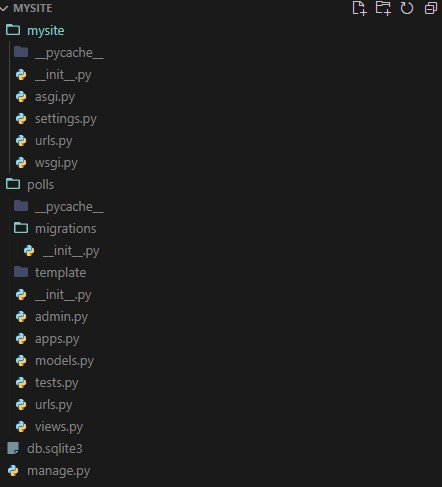
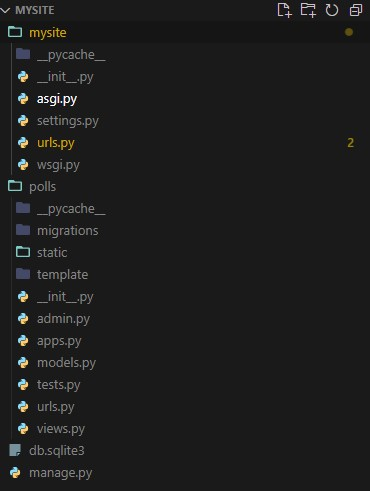
etc3 modify

diff --git a/_posts/etc/2022-01-18-etc-3.md b/_posts/etc/2022-01-18-etc-3.md
@@ -27,14 +27,39 @@ toc : true
     1. mysite/asgi.py : 현재 프로젝트를 서비스하기 위한 ASGI-호환 웹 서버의 진입점
     2. mysite/wsgi.py : 현재 프로젝트를 서비스하기 위한 WSGI 호환 웹 서버의 진입점
     3. mysite/urls.py : 장고 프로젝트의 사이트 목차(마스터)
+
+    ```python
+    urlpatterns = [
+        path('polls/', include('polls.urls')), # 도메인 뒤에 polls/가 붙으면(https://localhost/polls/) polls 앱에서 처리
+        path('admin/', admin.site.urls), # 도메인 뒤에 admin/이 붙으면 관리자 페이지 연결
+    ]
+    ```
+
     4. mysite/settings.py : 장고 프로젝트의 세팅 정보 ex) secretkey, ALLOWED_HOSTS, path 등
     5. polls/template : 자동생성되진 않고 디렉토리를 따로 만들어줘야함, 실제 서비스하는 웹사이트의 html 모음 디렉토리
     6. polls/admin.py : 관리자용 page의 조작 같은데 향후 제대로 수정 예정
     7. polls/apps.py : 구동되는 app ex) AI로 분류하는 사이트라면, AI 분류모델을 apps에서 선언
     8. polls/models.py : DB관련 정보
-    9. polls/urls.py : 현 app의 세부 목차
-    10. polls/views.py : event에 맞는 데이터를 요청
-    11. polls/tests.py : test 코드 
+    9. polls/urls.py : 현 app의 세부 목차(어떤 url에 접근했을 때, 어떻게 작동시킬지)
 
+    ```python
+    urlpaterns = [
+      path('',view.home) # 도메인 뒤에 아무것도 붙지 않으면 view에 home함수 실행 
+    ]
+    ```
+
+    10. polls/views.py : event에 맞는 데이터를 요청
+
+    ```python
+    from django.shortcuts import render
+
+    def home(request):
+      return render(request, 'polls/home.html')
+    
+    ```
+
+    11. polls/tests.py : test 코드 
+    12. polls/migration : 데이터베이스에 적용시켜야하는 변화에 대한 기록
+    13. polls/static : home.html 파일은 고정된 이미지가 아니라, 조회수가 올라가면 숫자가 바뀌는 등 **동적 페이지**다. 반면에 css는 항상 동일하게 적용되는 정적 구조이다. 이런 **정적인 요소들을 모아놓고 경로를 선언해서 사용하는 디렉토리**라고 생각하면 된다.(자동생성이 아닌 유저가 생성하는 폴더) 
 
 아직 완벽하진 않지만, 공부해가면서 틀린내용이나 더 많은 지식은 update하도록 하겠습니다.

diff --git a/_pages/category-archive.md b/_pages/category-archive.md
@@ -1,0 +1,6 @@
+---
+title: "Posts by Category"
+permalink: /categories/
+layout: categories
+author_profile: false
+---
